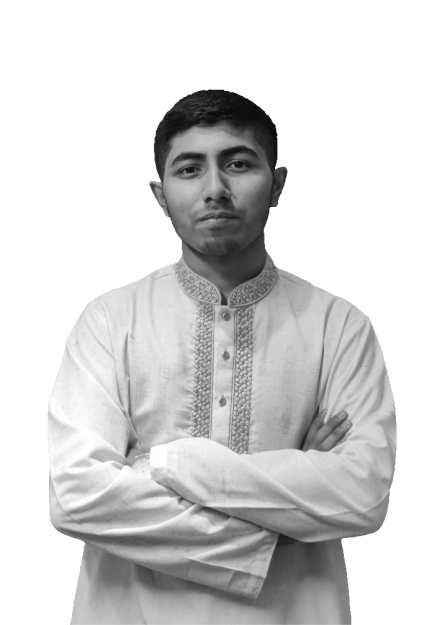
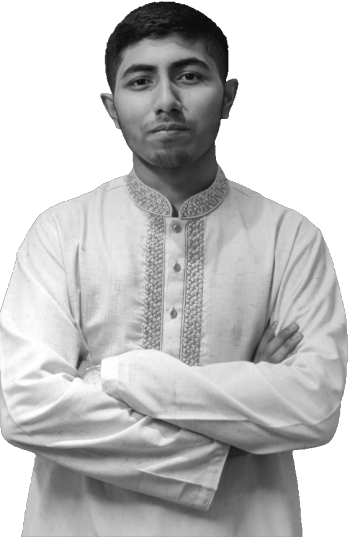
Update Modal

diff --git a/src/app/Components/Executives/Modal.tsx b/src/app/Components/Executives/Modal.tsx
@@ -5,15 +5,15 @@ import ExecutiveData from '../../db/executives';
 const Field = ({ title, desc }: { title: string; desc: React.ReactNode }) => {
   return (
     <div>
-      <p className="font-bold text-xl 2xl:text-2xl">{title}</p>
-      <p className="text-lg 2xl:text-xl 2xl:mt-1">{desc}</p>
+      <p className="font-bold text-lg 2xl:text-2xl">{title}</p>
+      <p className="text-base 2xl:text-xl 2xl:mt-1">{desc}</p>
     </div>
   );
 };
 const Links = ({ img, href }: { img: string; href: string }) => {
   return (
     <a
-      className="w-[30px] h-[30px] hover:fill-blue-500 transition-opacity opacity-70 hover:opacity-100"
+      className="w-[35px] h-[35px] hover:fill-blue-500 transition-opacity opacity-70 hover:opacity-100"
       href={href}
     >
       <img src={'/image/links/' + img + '.svg'} alt="" />
@@ -49,18 +49,26 @@ const Modal = ({
       ></div>
       <div
         className={
-          'fixed left-1/2 top-1/2 translate-y-[-50%] translate-x-[-50%] w-4/5 h-4/5 rounded-2xl  bg-white z-[70] shadow-2xl transition' +
+          'fixed overflow-hidden left-1/2 top-1/2 translate-y-[-50%] translate-x-[-50%] w-4/5 h-4/5 rounded-2xl  bg-white z-[70] shadow-2xl transition' +
           ' ' +
           (modalState ? 'scale-1' : 'scale-0 pointer-events-none')
         }
       >
         <img
-          className="absolute left-0 bottom-0 -z-10 min-w-[55%]"
+          className="absolute left-0 bottom-0 -z-10 min-w-[55%] "
           src="/image/modalbg.svg"
           alt=""
         />
+        <div className={'absolute top-8 right-8 flex align-middle text-right'}>
+          <div>
+            <p className="font-bold text-sm 2xl:text-base">Executive Committee</p>
+            <h3 className="text-4xl 2xl:text-[2.825rem] leading-none text-blue-500">
+              {modalState ? ExecutiveData.sessions[modalState[0]].session : ''}
+            </h3>
+          </div>
+        </div>
         <button
-          className="absolute top-5 right-5 p-3 bg-slate-50 rounded-full hover:bg-blue-50  hover:fill-blue-500 transition"
+          className="absolute top-5 left-5 p-3 bg-slate-50 rounded-full hover:bg-blue-50  hover:fill-blue-500 transition"
           onClick={() => setModalState(null)}
         >
           <svg xmlns="http://www.w3.org/2000/svg" className="w-4" viewBox="0 0 384 512">
@@ -69,7 +77,7 @@ const Modal = ({
         </button>
         {modalState && data ? (
           <div className="flex align-bottom h-full">
-            <img className="" src="/image/vaiya.png" alt="" />
+            <img className="object-cover ml-12 mt-[12.1vh]" src="/image/vaiya.png" alt="" />
             {/* <p>{JSON.stringify(ExecutiveData.sessions[modalState[0]].members[modalState[1]])}</p> */}
             <div className="w-full pr-8 pb-8 flex flex-col justify-between h-full">
               <div className="mt-[12.1vh]">
